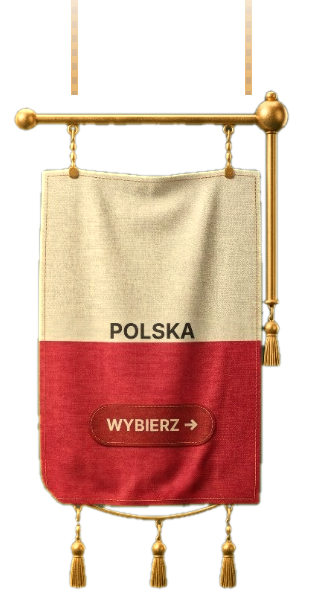
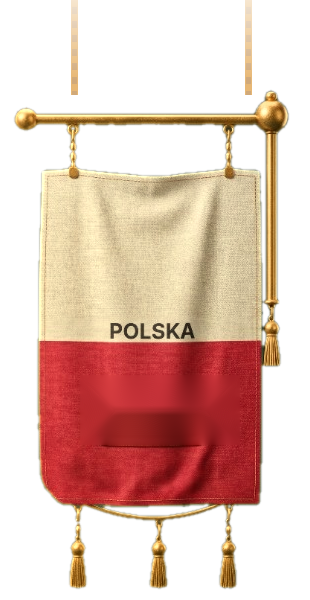
feat(visuals): eliminate double-button artifacts with clean fabric base and harmonize lighting with golden sunset environment

Changed region(s): [[0.2613, 0.63, 0.7258, 0.75]]

diff --git a/src/style.css b/src/style.css
@@ -20170,11 +20170,11 @@ html, body {
 /* 🌟 Real Interactive Clickable Button Pill Directly Covering Flag Buttons */
 .royal-action-btn {
   position: absolute;
-  top: 71.8%;
-  left: 50%;
+  top: 68.25%;
+  left: 51.5%;
   transform: translate(-50%, -50%);
-  width: 46%;
-  height: 8.2%;
+  width: 44%;
+  height: 8.5%;
   border-radius: 9999px;
   cursor: pointer;
   display: flex;
